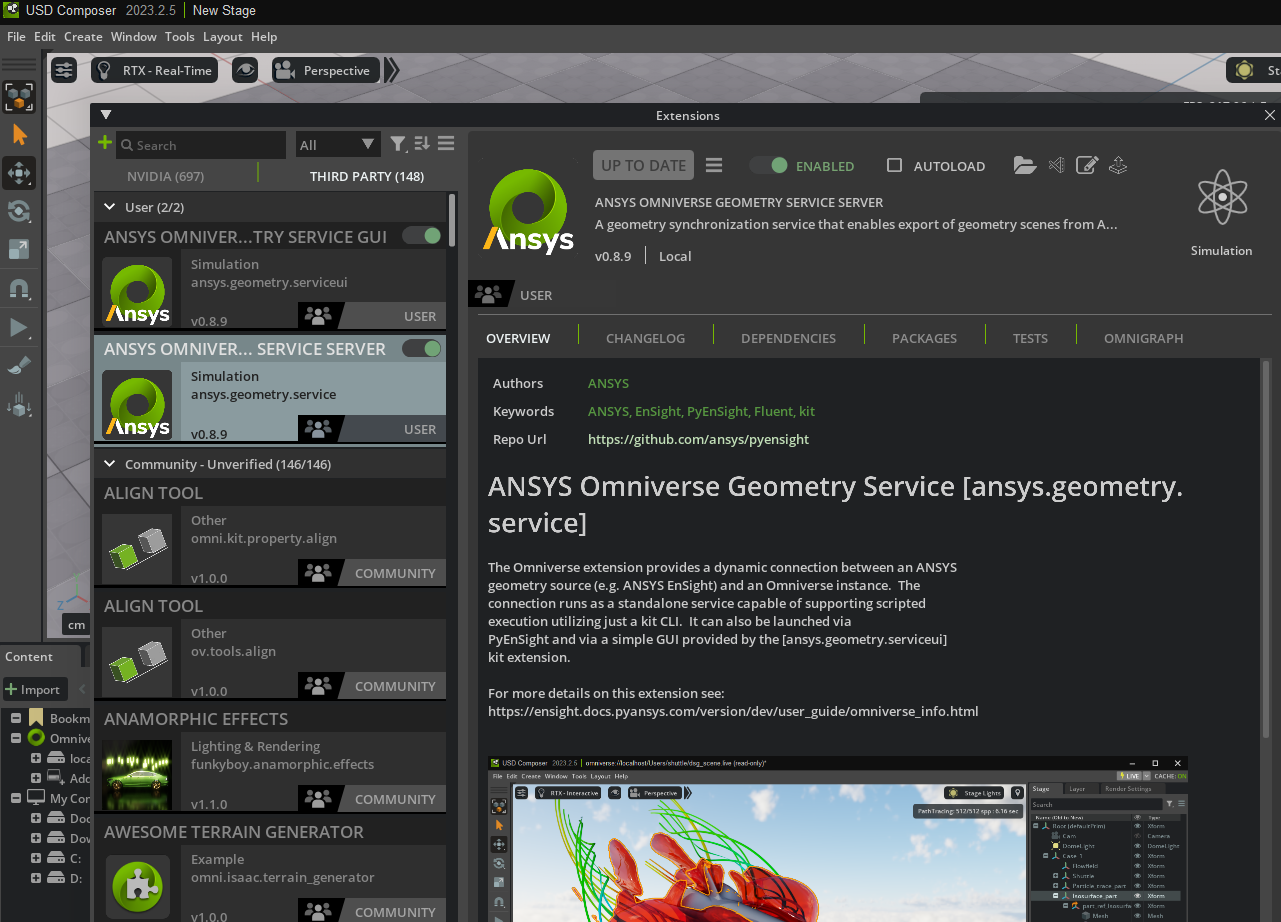
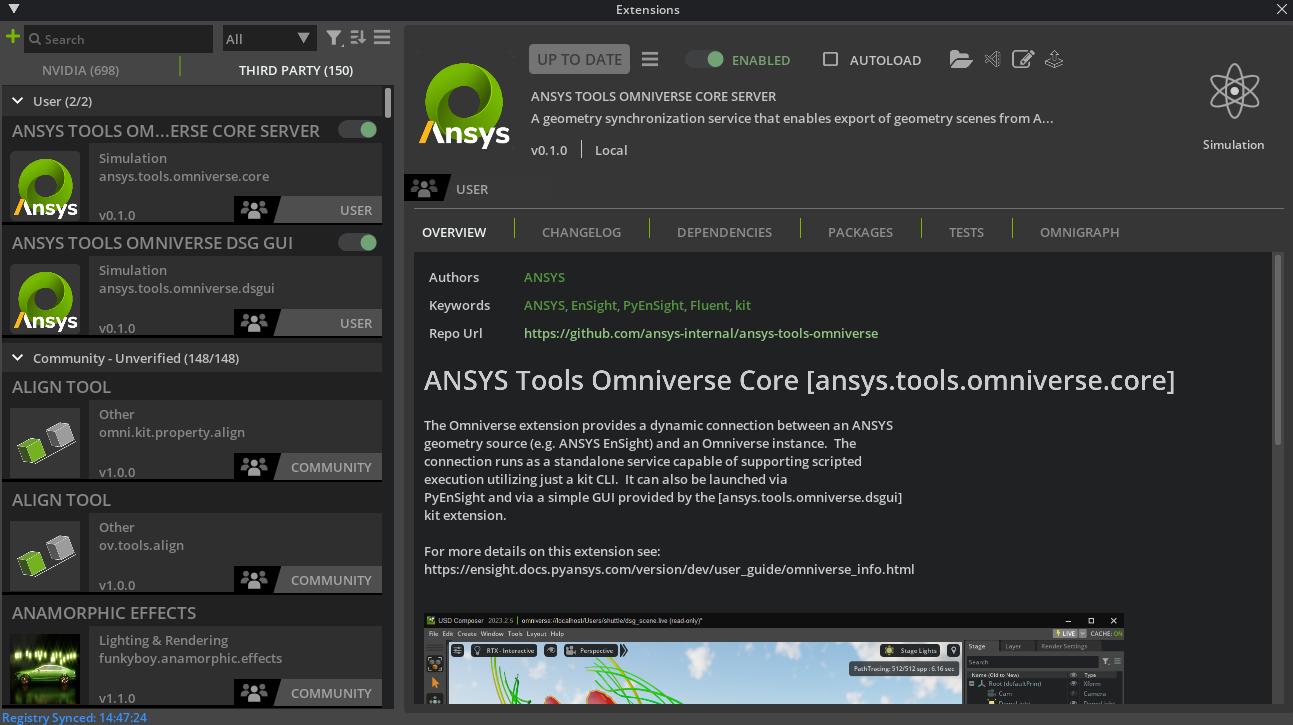
Update docs and fix up pathname issues
Patch up some pathing issues in the original PR.
Update the docs for the new names.

diff --git a/exts/ansys.tools.omniverse.core/ansys/tools/omniverse/core/extension.py b/exts/ansys.tools.omniverse.core/ansys/tools/omniverse/core/extension.py
@@ -51,7 +51,6 @@ if os.environ.get("ANSYS_PYPI_REINSTALL", "") == "1":
     logging.warning("ansys.tools.omniverse.server - Forced reinstall ansys-pyensight-core")
     # Add ignore cache attribute when reinstalling so that you can switch between dev and released versions if needed
     omni.kit.pipapi.install(package_name, extra_args=extra_args, version=version, ignore_cache=True)
-
 try:
     # Checking to see if we need to install the module
     import ansys.pyensight.core
@@ -69,7 +68,7 @@ following for this file:
 ansys\pyensight\core\exts\ansys.tools.omniverse.core\ansys\tools\omniverse\core\extension.py
 """
 kit_dir = __file__
-for _ in range(5):
+for _ in range(6):
     kit_dir = os.path.dirname(kit_dir)
 """
 At this point, the name should be: {something}\ansys\pyensight\core\exts
@@ -92,11 +91,19 @@ import ansys.pyensight.core  # noqa: F811, E402
 
 # force a reload if we changed the path or had a partial failure that lead
 # to a pipapi install.
-_ = reload(ansys.pyensight.core)
+try:
+    _ = reload(ansys.pyensight.core)
+except Exception:
+    pass
+
+import ansys.pyensight.core.utils  # noqa: F811, E402
+
 _ = reload(ansys.pyensight.core.utils)
+
 import ansys.pyensight.core.utils.dsg_server as dsg_server  # noqa: E402
 
 _ = reload(ansys.pyensight.core.utils.dsg_server)
+
 import ansys.pyensight.core.utils.omniverse_dsg_server as ov_dsg_server  # noqa: E402
 
 _ = reload(ansys.pyensight.core.utils.omniverse_dsg_server)
@@ -182,6 +189,8 @@ class AnsysToolsOmniverseCoreServerExtension(omni.ext.IExt):
     @property
     def pyensight_version(self) -> str:
         """The ansys.pyensight.core version"""
+        if version:
+            return version
         return ansys.pyensight.core.VERSION
 
     @property

diff --git a/src/ansys/pyensight/core/exts/ansys.tools.omniverse.core/ansys/tools/omniverse/core/extension.py b/src/ansys/pyensight/core/exts/ansys.tools.omniverse.core/ansys/tools/omniverse/core/extension.py
@@ -68,7 +68,7 @@ following for this file:
 ansys\pyensight\core\exts\ansys.tools.omniverse.core\ansys\tools\omniverse\core\extension.py
 """
 kit_dir = __file__
-for _ in range(5):
+for _ in range(6):
     kit_dir = os.path.dirname(kit_dir)
 """
 At this point, the name should be: {something}\ansys\pyensight\core\exts
@@ -91,11 +91,19 @@ import ansys.pyensight.core  # noqa: F811, E402
 
 # force a reload if we changed the path or had a partial failure that lead
 # to a pipapi install.
-_ = reload(ansys.pyensight.core)
+try:
+    _ = reload(ansys.pyensight.core)
+except Exception:
+    pass
+
+import ansys.pyensight.core.utils  # noqa: F811, E402
+
 _ = reload(ansys.pyensight.core.utils)
+
 import ansys.pyensight.core.utils.dsg_server as dsg_server  # noqa: E402
 
 _ = reload(ansys.pyensight.core.utils.dsg_server)
+
 import ansys.pyensight.core.utils.omniverse_dsg_server as ov_dsg_server  # noqa: E402
 
 _ = reload(ansys.pyensight.core.utils.omniverse_dsg_server)
@@ -181,6 +189,8 @@ class AnsysToolsOmniverseCoreServerExtension(omni.ext.IExt):
     @property
     def pyensight_version(self) -> str:
         """The ansys.pyensight.core version"""
+        if version:
+            return version
         return ansys.pyensight.core.VERSION
 
     @property

diff --git a/doc/source/user_guide/omniverse_info.rst b/doc/source/user_guide/omniverse_info.rst
@@ -11,8 +11,8 @@ or later.
 
 The API is available through a PyEnSight session instance, from EnSight
 Python directly as (ensight.utils.omniverse for 2025 R1 and later) and
-from within Omniverse applications via the ansys.geometry.service and
-ansys.geometry.serviceui kit extensions.
+from within Omniverse applications via the ansys.tools.omniverse.core and
+ansys.tools.omniverse.dsgui kit extensions.
 
 The Python API is defined here: :class:`Omniverse<ansys.pyensight.core.utils.omniverse.Omniverse>`.
 
@@ -107,7 +107,7 @@ an EnSight session or the GUI panel can be used to connect to a
 copy of EnSight that was launched with the ``-grpc_server {port}``
 option specified.
 
-The ``ansys.geometry.serviceui`` kit includes a GUI similar to the
+The ``ansys.tools.omniverse.dsgui`` kit includes a GUI similar to the
 EnSight 2025 R1 user-defined tool.  It allows one to select a
 target URI in Omniverse and the details of a gRPC connection
 to a running EnSight.  For example, if one launches EnSight with
@@ -117,7 +117,7 @@ scene to Omniverse.
 
 .. note::
 
-    If the ``ansys.geometry.service`` and ``ansys.geometry.serviceui``
+    If the ``ansys.tools.omniverse.core`` and ``ansys.tools.omniverse.dsgui``
     do not show up in the Community extensions list in Omniverse, then
     it can be added to the ``Extension Search Paths`` list as:
     ``git://github.com/ansys/pyensight.git?branch=main&dir=exts``.
@@ -137,7 +137,7 @@ From the Command Line
 ^^^^^^^^^^^^^^^^^^^^^
 
 Omniverse kits can be run as command line tools and
-the ``ansys.geometry.service`` is designed to support this mode
+the ``ansys.tools.omniverse.core`` is designed to support this mode
 of operation as well.  For this to work, one needs a copy of the
 pyensight wheel and the name of a ``kit`` executable. The pyensight wheel
 can be built by checking out the repo and building it. One can
@@ -155,29 +155,29 @@ from the command line like this:
 .. code-block:: bat
 
     cd "C:\Users\user1\AppData\Local\ov\pkg\create-2023.2.5"
-    .\kit.bat --ext-folder "D:\repos\pyensight\src\ansys\pyensight\core\exts" --enable ansys.geometry.service --/exts/ansys.geometry.service/help=1
+    .\kit.bat --ext-folder "D:\repos\pyensight\src\ansys\pyensight\core\exts" --enable ansys.tools.omniverse.core --/exts/ansys.tools.omniverse.core/help=1
 
 
 Will generate the following output in the logs:
 
 .. code-block::
 
-    ANSYS Omniverse Geometry Service: ansys.geometry.service-0.8.5
-      --/exts/ansys.geometry.service/help=1
+    ANSYS Tools Omniverse Core:: ansys.tools.omniverse.core-0.1.0
+      --/exts/ansys.tools.omniverse.core/help=1
          Display this help.
-      --/exts/ansys.geometry.service/run=1
+      --/exts/ansys.tools.omniverse.core/run=1
          Run the server.
-      --/exts/ansys.geometry.service/omniUrl=URL
+      --/exts/ansys.tools.omniverse.core/omniUrl=URL
          Omniverse pathname.  (default: omniverse://localhost/Users/test)
-      --/exts/ansys.geometry.service/dsgUrl=URL
+      --/exts/ansys.tools.omniverse.core/dsgUrl=URL
          Dynamic Scene Graph connection URL.  (default: grpc://127.0.0.1:5234)
-      --/exts/ansys.geometry.service/securityCode=TOKEN
+      --/exts/ansys.tools.omniverse.core/securityCode=TOKEN
          Dynamic Scene Graph security token.  (default: )
-      --/exts/ansys.geometry.service/temporal=0|1
+      --/exts/ansys.tools.omniverse.core/temporal=0|1
          If non-zero, include all timeseteps in the scene.  (default: False)
-      --/exts/ansys.geometry.service/vrmode=0|1
+      --/exts/ansys.tools.omniverse.core/vrmode=0|1
          If non-zero, do not include a camera in the scene.  (default: False)
-      --/exts/ansys.geometry.service/normalizeGeometry=0|1
+      --/exts/ansys.tools.omniverse.core/normalizeGeometry=0|1
          If non-zero, remap the geometry to the domain [-1,-1,-1]-[1,1,1].  (default: False)
 
 
@@ -186,7 +186,7 @@ from the command line.  This version of the service will be run using the versio
 installed in the specified ``--ext-folder``.  When run as above, the service will use the
 latest released of the ansys.pyensight.core wheel.  It is important the the ``--ext-folder`` option
 point to the ``exts`` directory inside of the ``ansys\pyensight\core`` directories as this will
-cause the kit to use the ``ansys.pyensight.core`` module from the directories above the kit
+cause the kit to use the ``ansys.tools.omniverse.core`` module from the directories above the kit
 instead of the any version installed in the kit Python itself.
 
 
